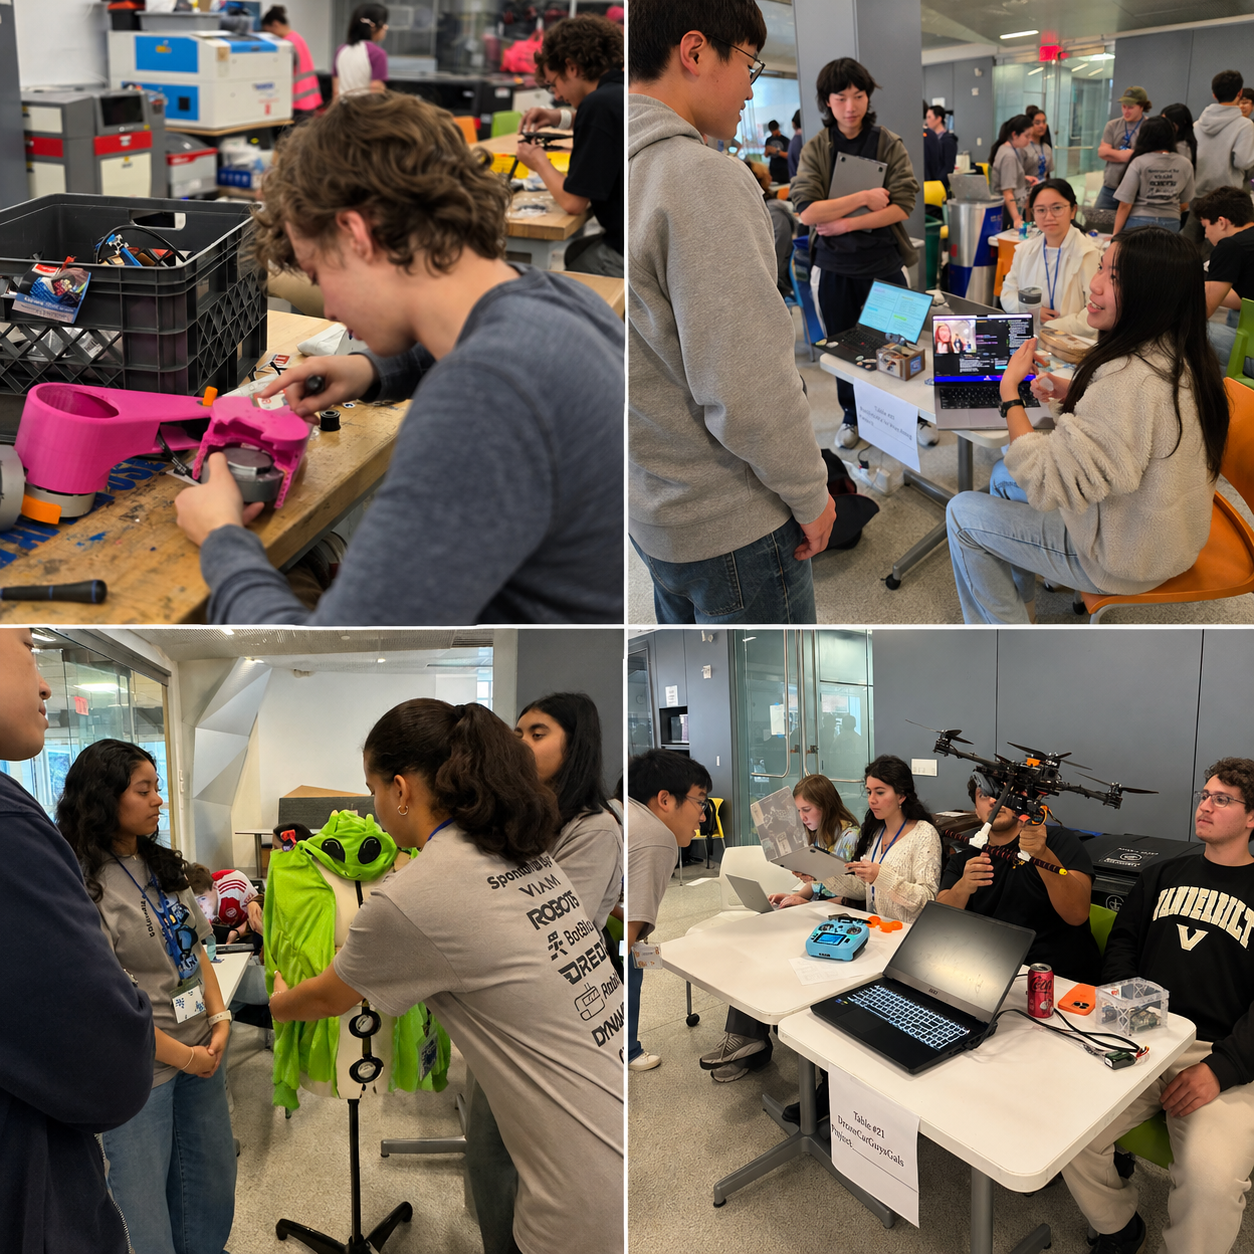
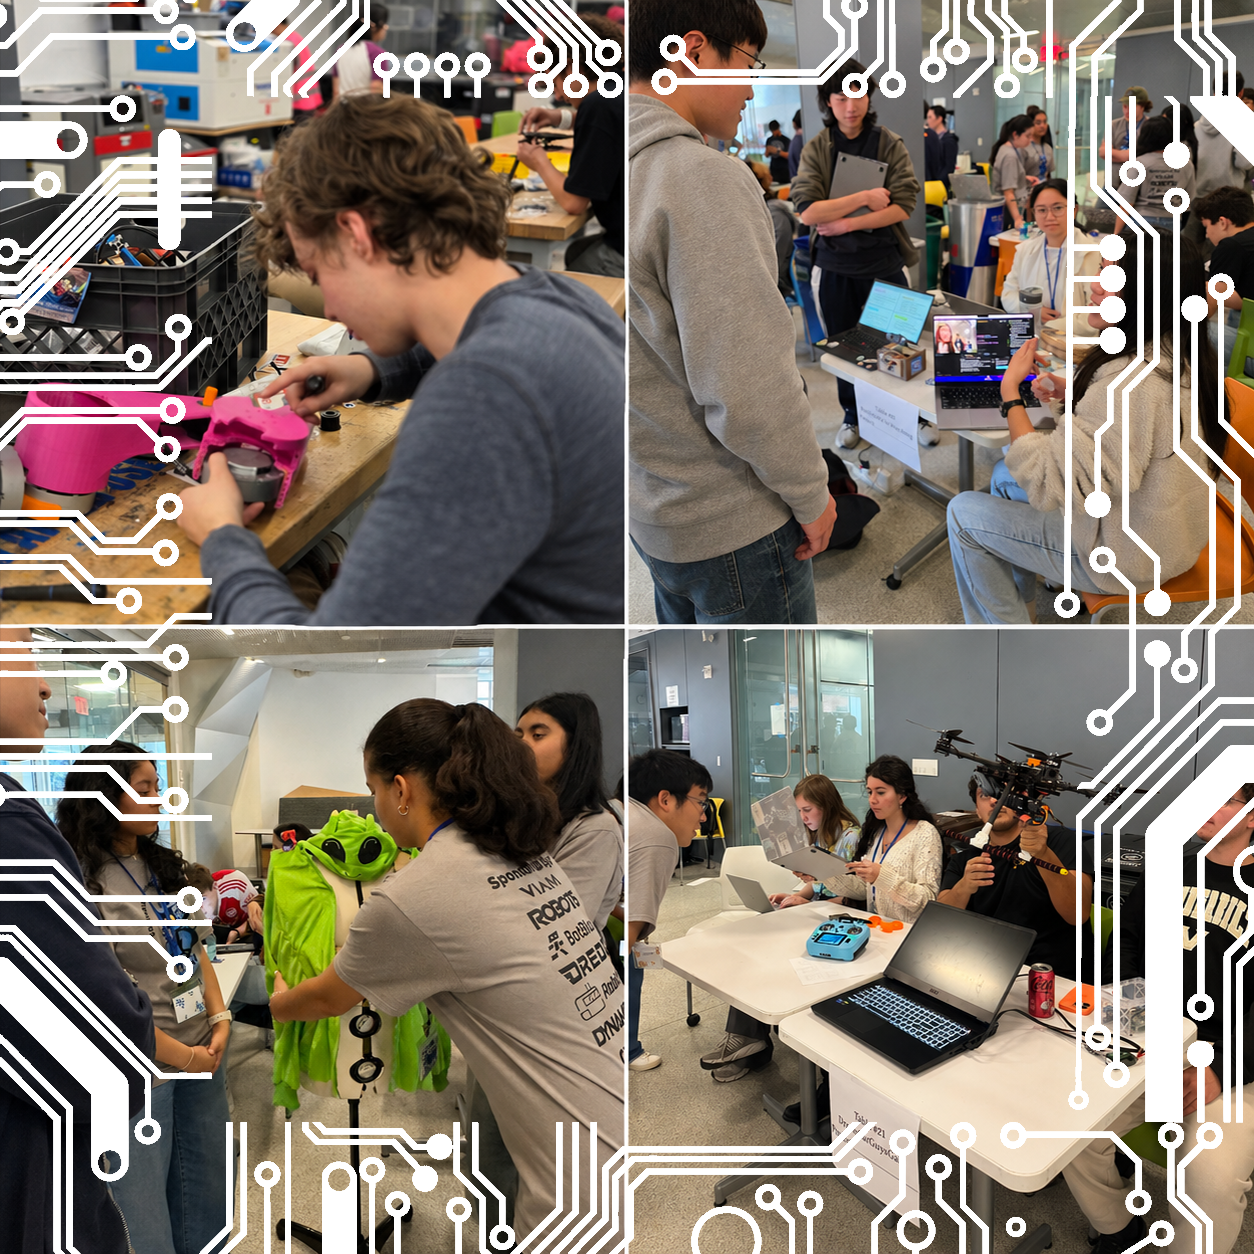
Fixed makecu photo design

diff --git a/css/makecu.css b/css/makecu.css
@@ -703,8 +703,10 @@ a {
   box-shadow:
     8px 8px 0 rgba(0, 81, 154, 0.48),
     0 0 0 1px rgba(235, 235, 235, 0.22);
+  height: auto;
   object-fit: cover;
   opacity: 0.68;
+  max-width: 100%;
 }
 
 .past-event-photo-placeholder {
